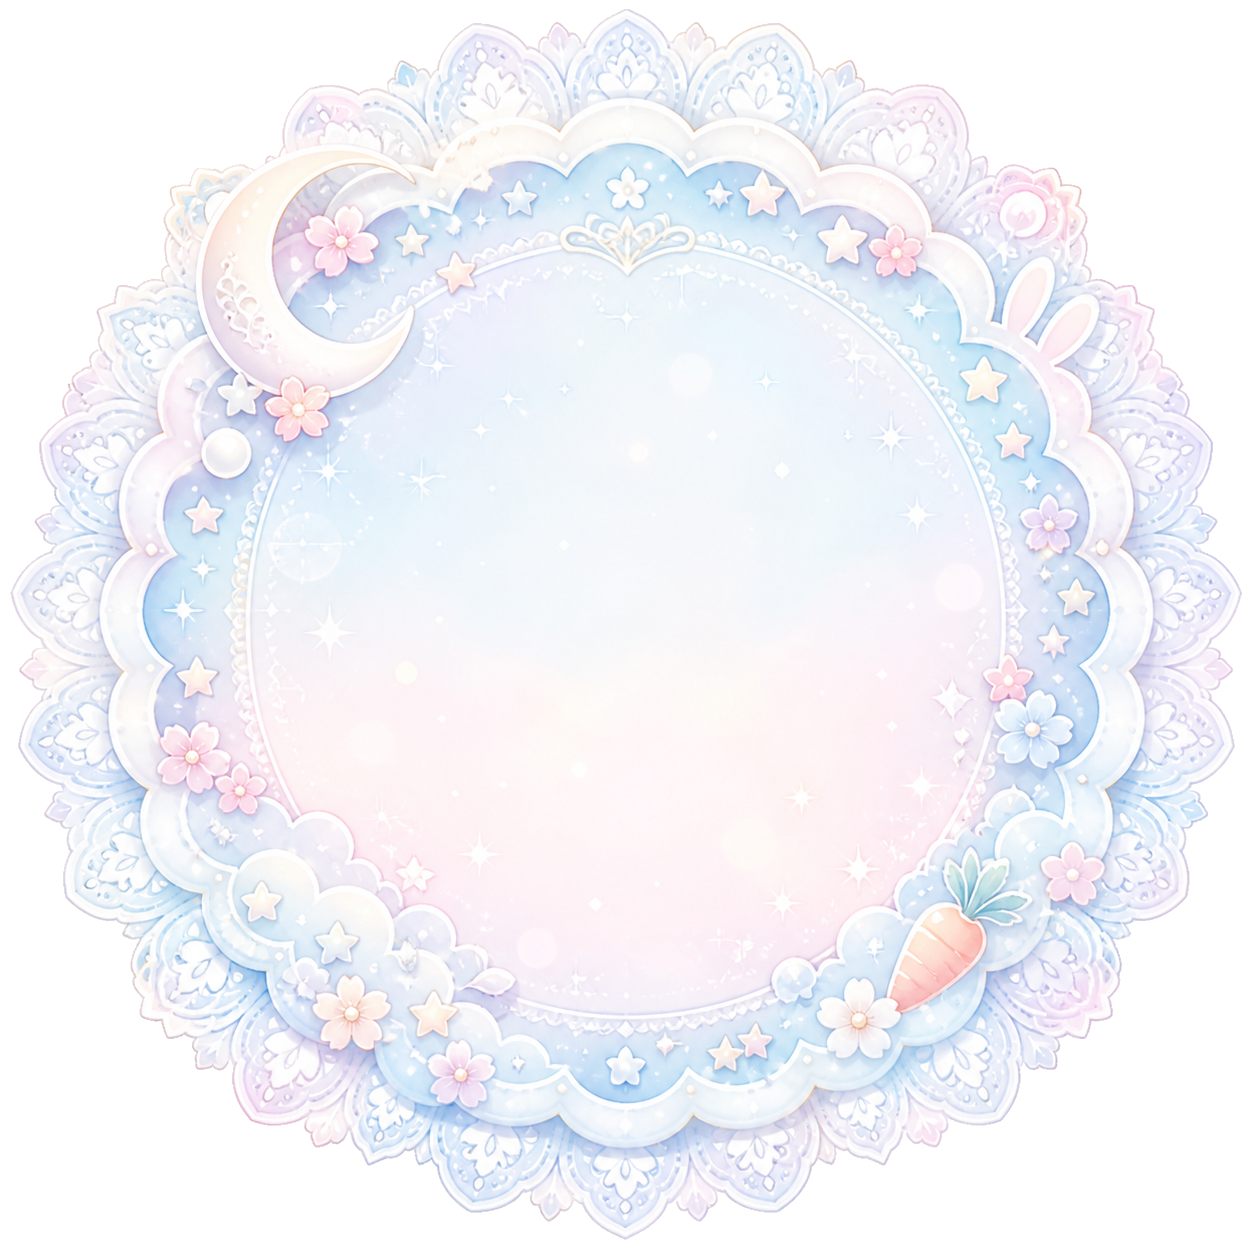
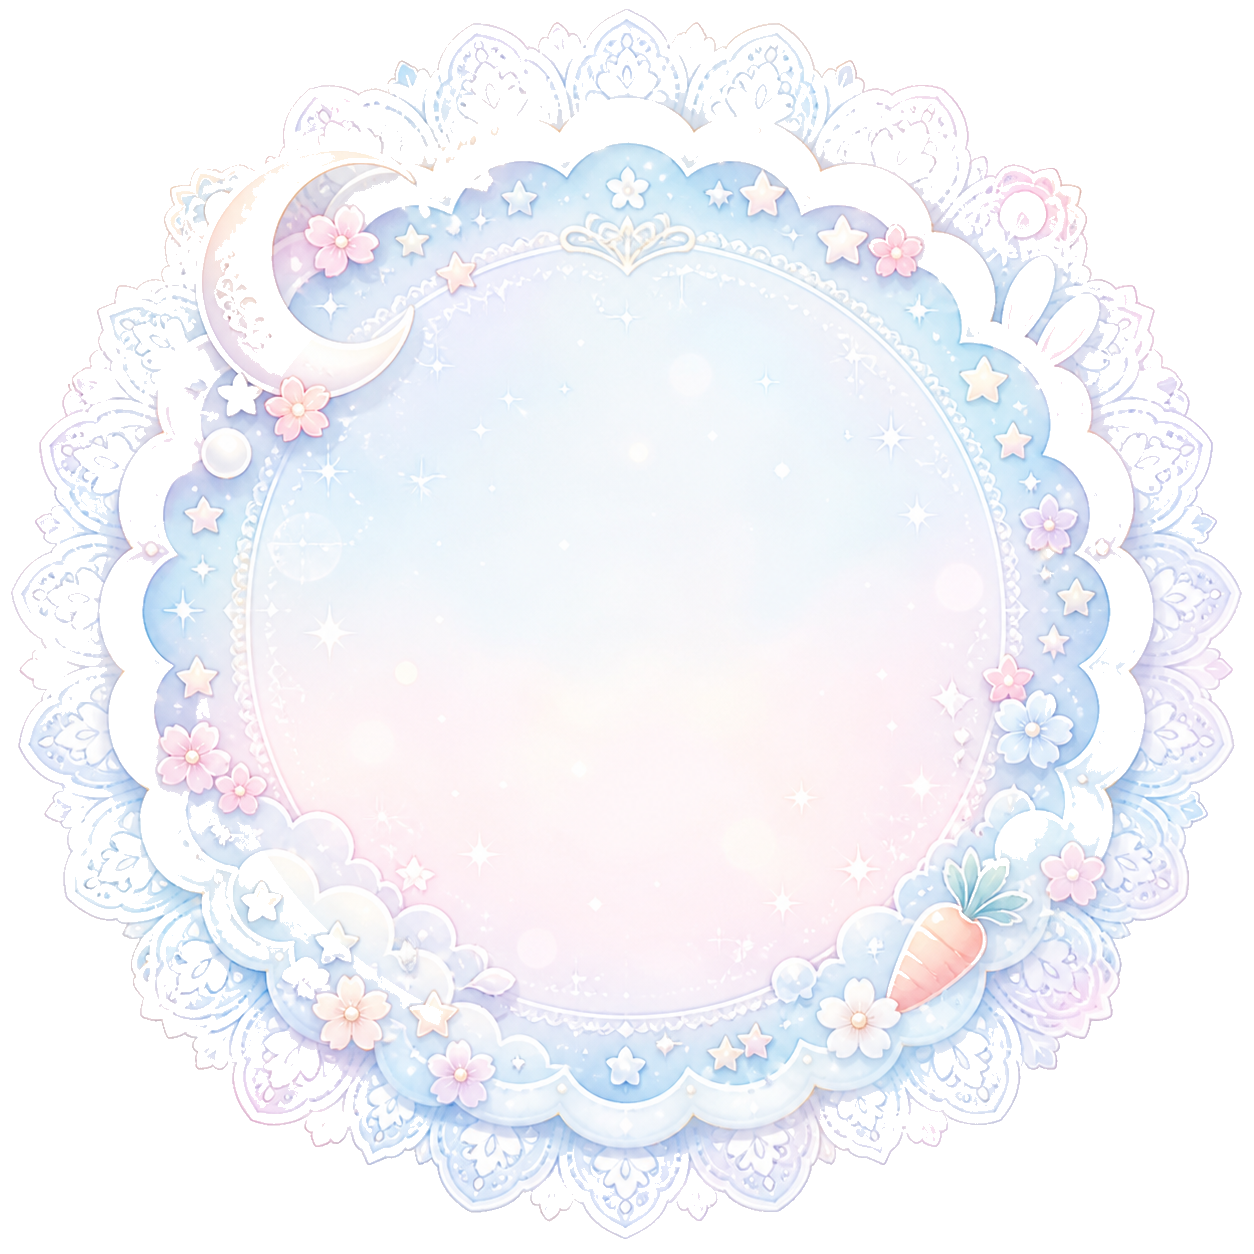
Add files via upload

diff --git a/blue/index.html b/blue/index.html
@@ -31,7 +31,7 @@
           <span>☀ 09:00–12:00</span>
           <span>☾ 18:00–22:00</span>
         </div>
-        <img class="brand-logo" src="../assets/brand-logo.png" alt="兔绾绾 Logo">
+        <img class="brand-logo" src="../assets/brand-logo-cropped.png" alt="兔绾绾 Logo">
       </div>
     </div>
   </header>
